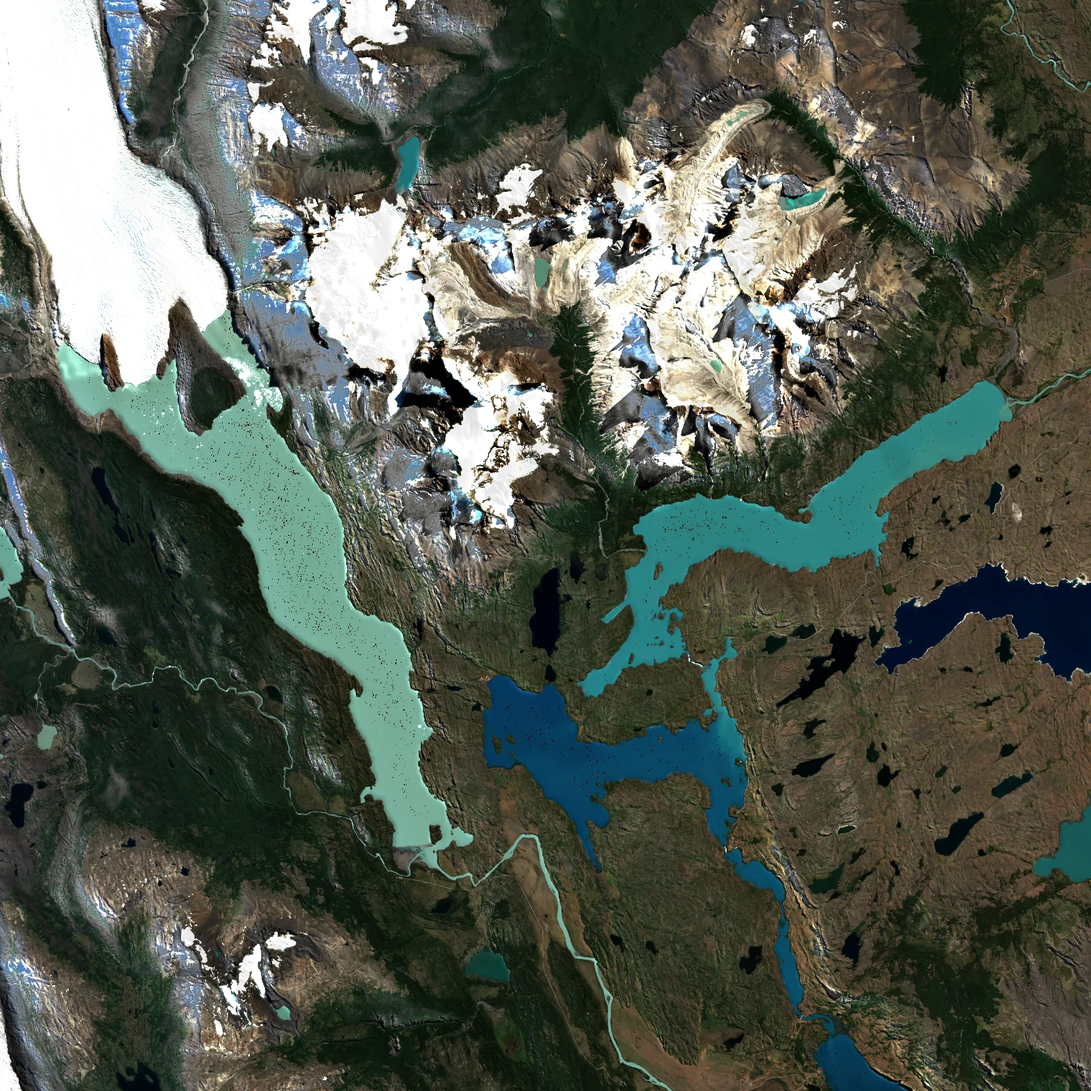
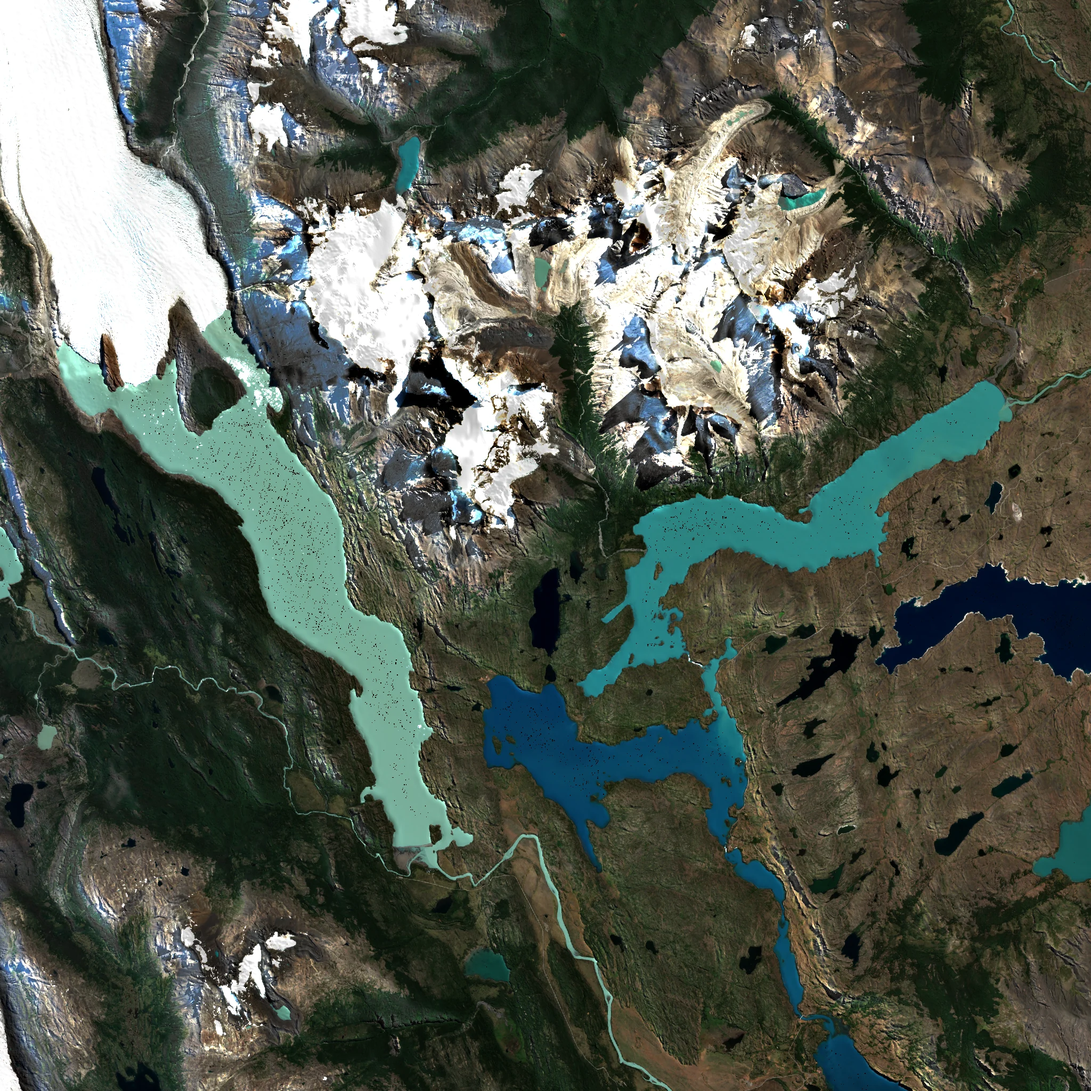
Plains: textured snow and ice on the satellite albedo; gentler de-shading (no false snow)
Claude-Session: https://claude.ai/code/session_01DEtCNBKZLSrATswhXUpUGt

diff --git a/src/biomes/plains/backdrop.js b/src/biomes/plains/backdrop.js
@@ -310,7 +310,13 @@ function backdropMaterial( hmTex ) {
 		const suv = xz.div( 32000.0 ).add( 0.5 );
 		const sat = texture( SAT, suv ).rgb;
 		const satSnow = smoothstep( 0.85, 0.97, min( sat.r, min( sat.g, sat.b ) ) );
-		const satAlb = mix( sat.mul( 0.24 ), vec3( 0.82, 0.84, 0.88 ), satSnow );
+		// snow / ice: keep texture and relief (scanned snow + broken grey-blue ice, dirty
+		// moraine streaks), never a flat white decal
+		const snowTexS = tri( T.snowC, P, triW( Ng ), 1.0 / 22.0 );
+		const iceVar = vnoise( xz.div( 60.0 ) ).mul( 0.6 ).add( vnoise( xz.div( 17.0 ) ).mul( 0.4 ) );
+		const satIce = mix( vec3( 0.5, 0.56, 0.62 ), vec3( 0.8, 0.82, 0.85 ), smoothstep( 0.3, 0.75, iceVar ) )
+			.mul( lum( snowTexS.rgb ).div( 0.62 ).clamp( 0.82, 1.1 ) );
+		const satAlb = mix( sat.mul( 0.24 ), satIce, satSnow );
 		const rO = length( xz );
 		const satK = smoothstep( 1100.0, 2300.0, rO ).mul( step( abs( xz.x ), 15900.0 ) ).mul( step( abs( xz.y ), 15900.0 ) );
 		// scanned rock grain modulates the satellite colour up close
